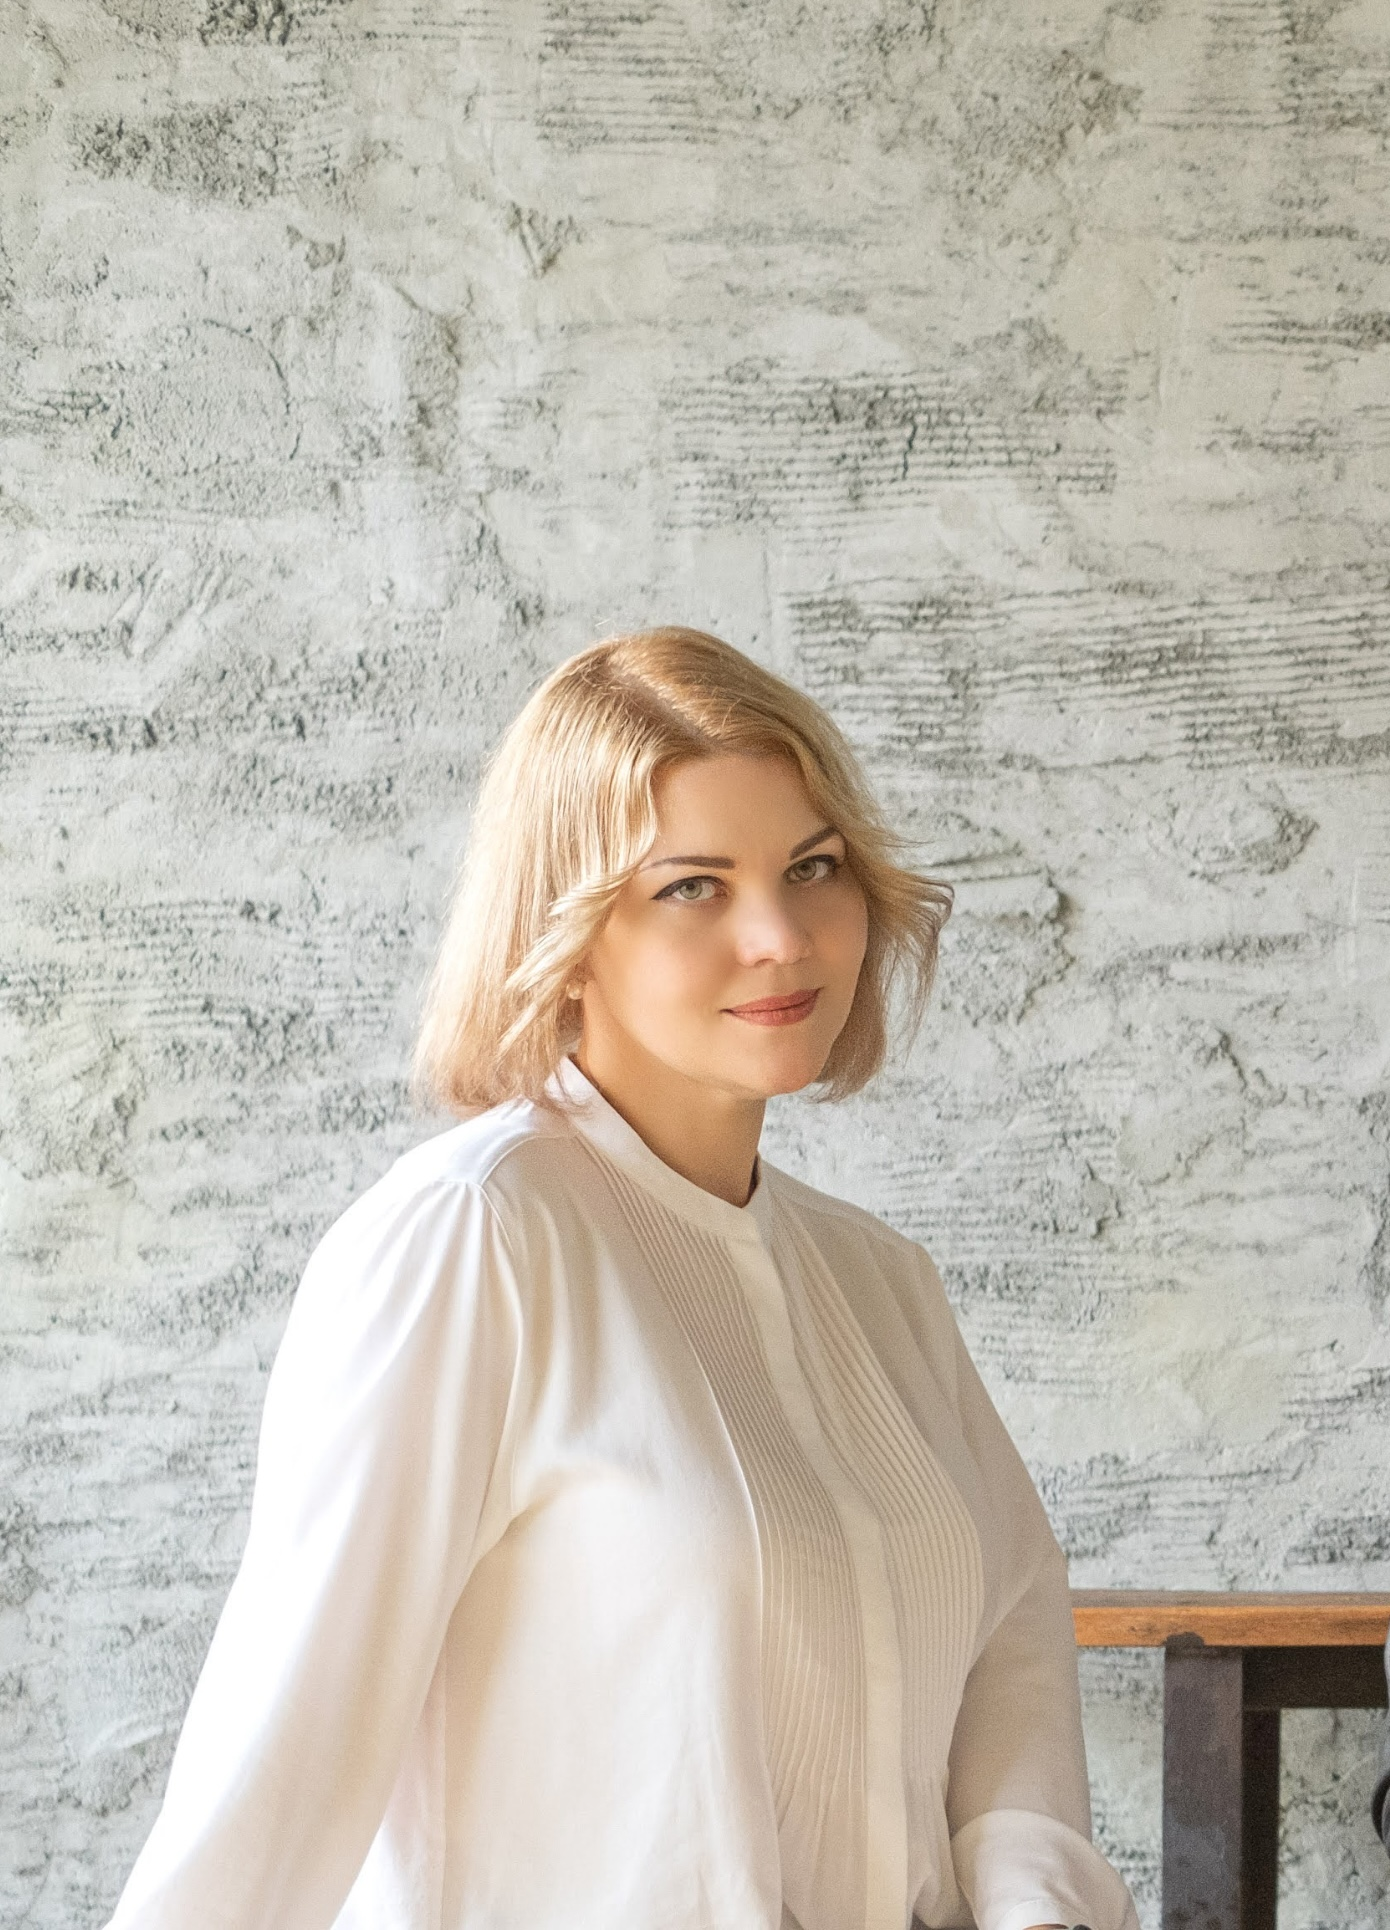
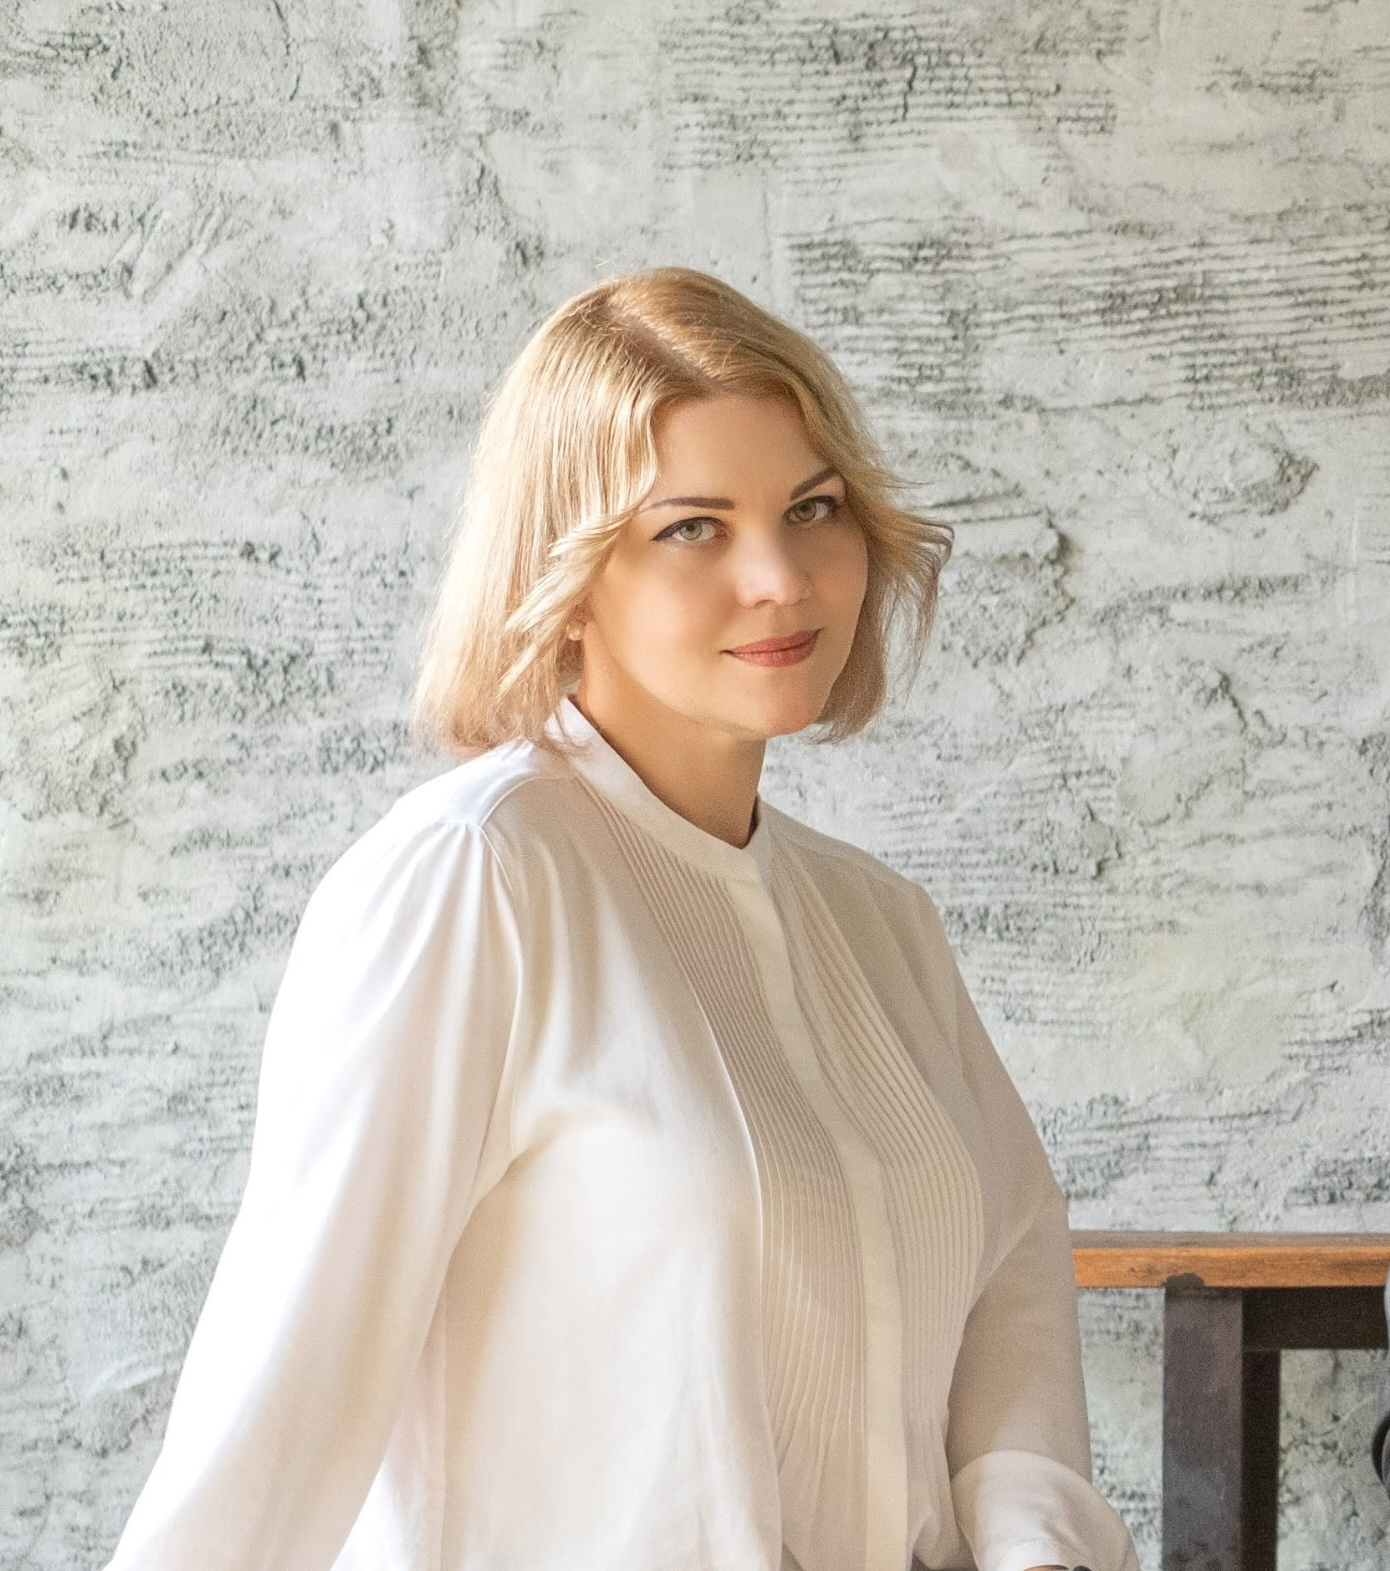
refactor: added correct photos for jobs categories, added breakpoint for mainSlider, fixed mainSlider main slide image

diff --git a/src/entities/MainSlider/MainSlider.styles.ts b/src/entities/MainSlider/MainSlider.styles.ts
@@ -44,7 +44,7 @@ export const Wrapper = styled.section`
 
 export const ImageWrapper = styled(Slider.ImageWrapper)`
   background: ${Color.Haki};
-  
+
   ${mediaQueries.gt.Desktop} {
     height: 100vh;
   }
@@ -98,8 +98,10 @@ export const SlideBackground = styled.img`
   }
 
   ${mediaQueries.gt.Desktop} {
-    height: 100vh;
+    height: auto;
     width: 100vw;
+
+    aspect-ratio: 1;
   }
 `;
 
@@ -130,9 +132,15 @@ export const SecondaryText = styled.h2`
 `;
 
 export const MainImage = styled.div`
-  width: 106px;
-  height: 100px;
+  width: 38px;
+  height: 36px;
 
   background: url(${logo});
+  background-size: cover;
   margin-bottom: 8px;
+
+  ${mediaQueries.gt.Desktop} {
+    width: 106px;
+    height: 100px;
+  }
 `;

diff --git a/src/entities/Jobs/ui/Jobs.tsx b/src/entities/Jobs/ui/Jobs.tsx
@@ -2,7 +2,7 @@ import React from "react";
 
 import scenery from "@static/images/scenery.jpeg";
 import stillLife from "@static/images/stil_life.jpeg";
-import art from "@static/images/artwork.png";
+import art from "@static/images/artwork.jpeg";
 import study from "@static/images/studywork.jpeg";
 import graphics from "@static/images/graphics.jpeg";
 

diff --git a/src/shared/constants/breakpoints.ts b/src/shared/constants/breakpoints.ts
@@ -1,5 +1,5 @@
 export const Breakpoints = {
   Mobile: 375,
-  Tablet: 773,
+  Tablet: 573,
   Desktop: 1240,
 };
